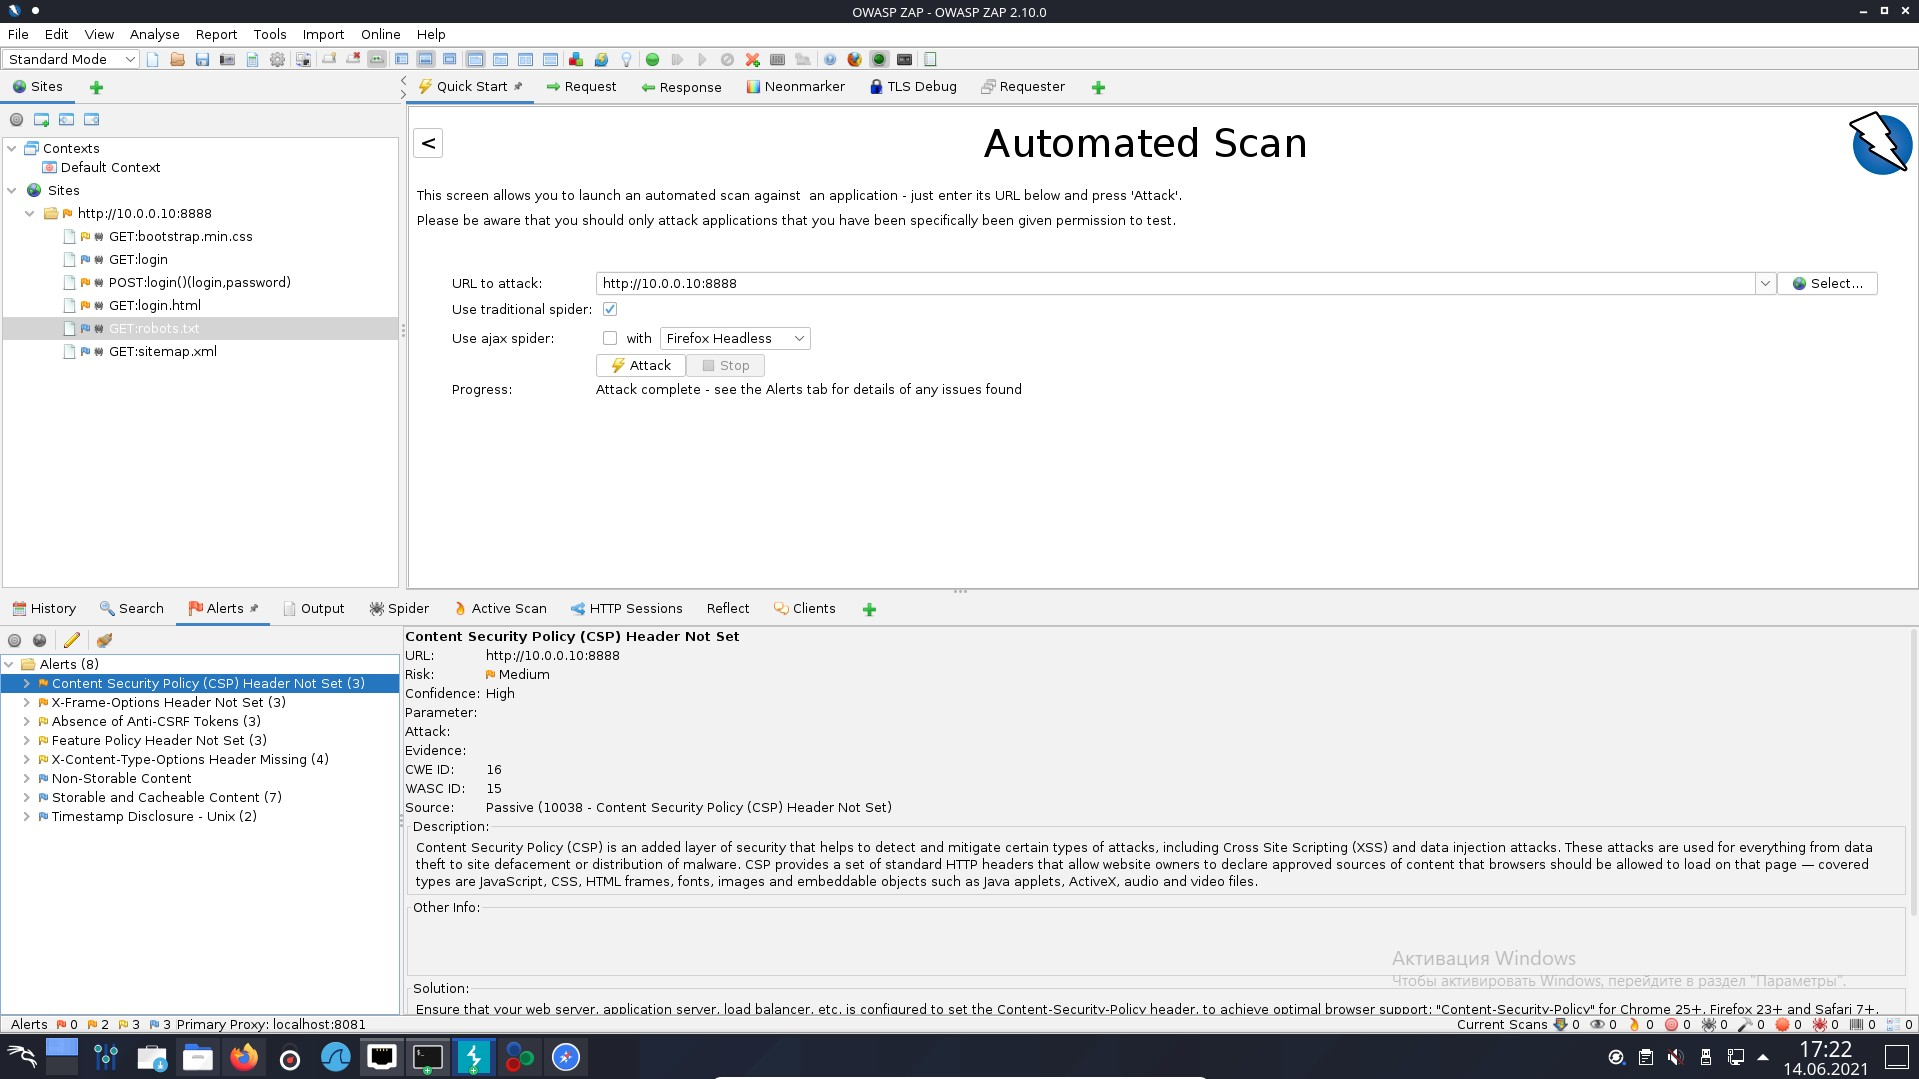
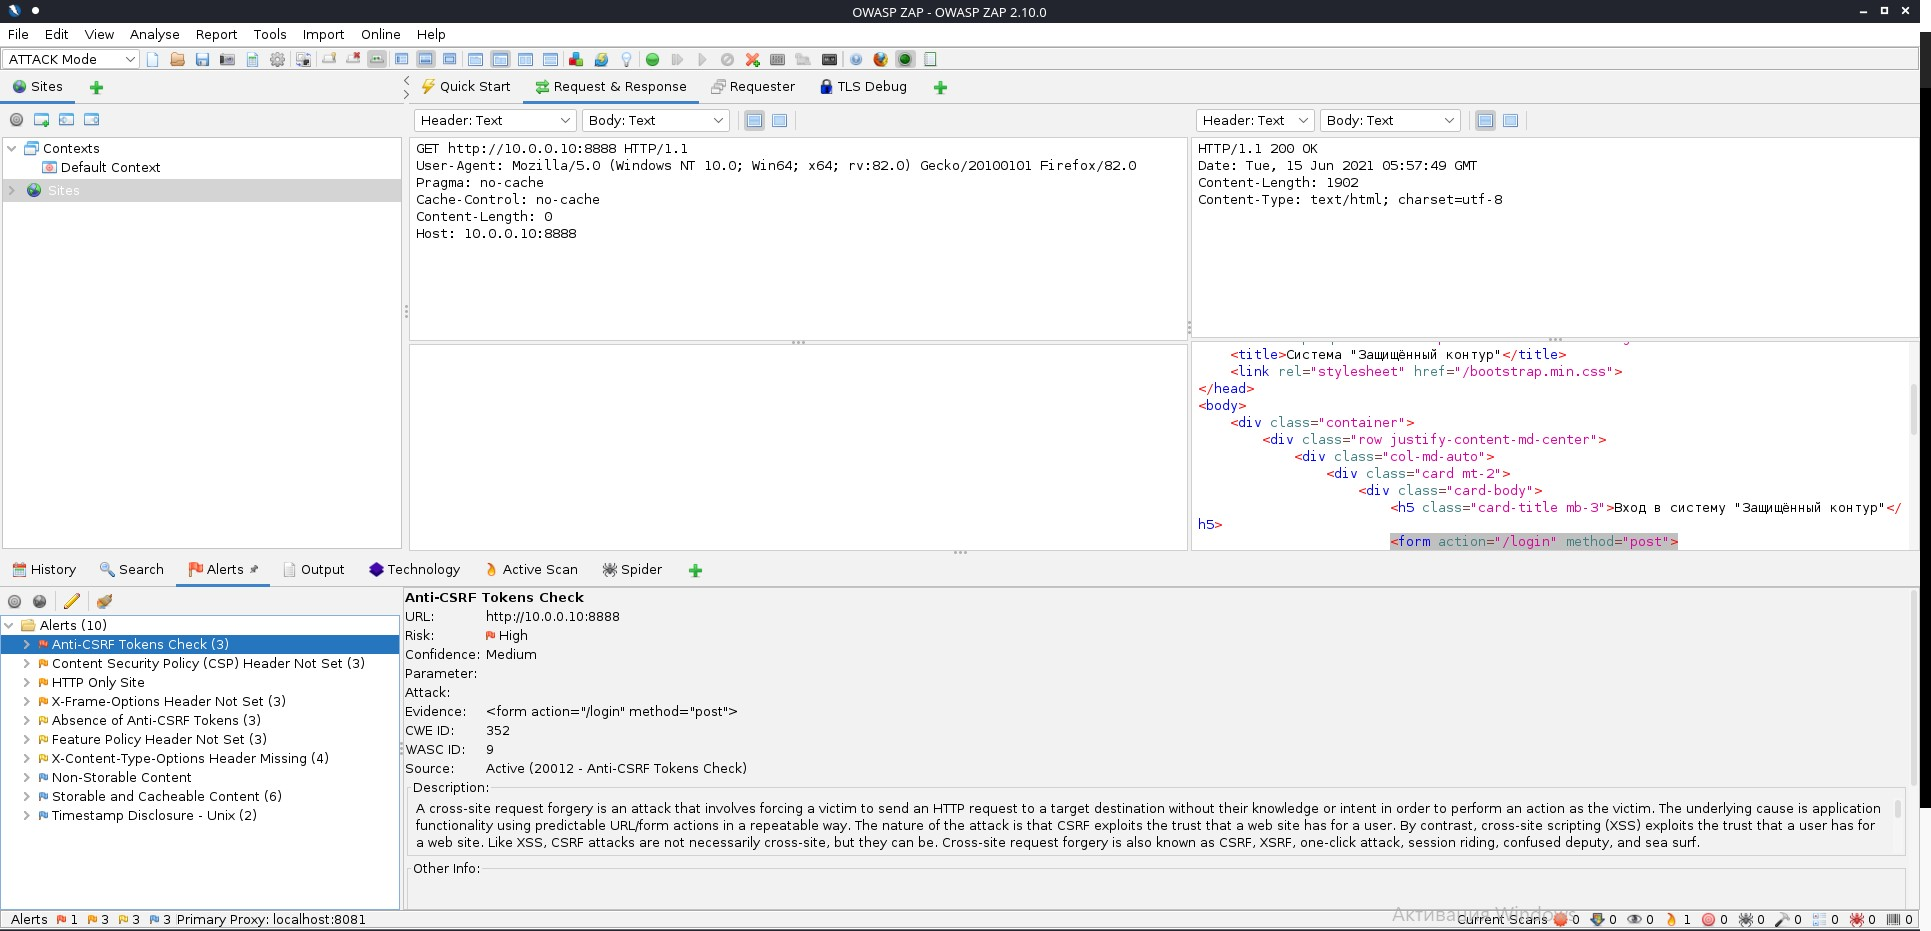
CourseWork4

Changed region(s): [[0.0, 0.0, 1.0, 1.0], [0.3075, 0.3115, 0.5534, 0.3738]]

diff --git a/CourseWork/coursework.md b/CourseWork/coursework.md
@@ -4,20 +4,98 @@
 
 ### >>>> ПДн: реализация мер по обеспечению безопасности в части ИАФ, УПД
 
-1. Отсутствует логирование действий операторов работающих с документами КТ.
-2. 
+#### Приказ 21
+
+1.	ИАФ.3	Управление идентификаторами, в том числе создание, присвоение, уничтожение идентификаторов
+
+    > Не реализовано
+
+2. ИАФ.4	Управление средствами аутентификации, в том числе хранение, выдача, инициализация, блокирование средств аутентификации и принятие мер в случае утраты и (или) компрометации средств аутентификации
+    > Не реализовано
+
+3. ИАФ.5	Защита обратной связи при вводе аутентификационной информации
+    > Не реализовано. Используется HTTP при аутентификации. Является слабостью, есть возможность перехвата аутентификационных данных.
+
+4.  ИАФ.6	Идентификация и аутентификация пользователей, не являющихся работниками оператора (внешних пользователей)
+    > Не реализовано
+
+5. УПД.1	Управление (заведение, активация, блокирование и уничтожение) учетными записями пользователей, в   том числе внешних пользователей    
+    > Не реализовано. Созданы только функции создания и удаления учётных записей.
+
+6. УПД.2	Реализация необходимых методов (дискреционный, мандатный, ролевой или иной метод), типов (чтение, запись, выполнение или иной тип) и правил разграничения доступа
+    > Реализован ролевой метод, не учитывая ошибки реализации описанные в пункте 8.
+
+7. УПД.3	Управление (фильтрация, маршрутизация, контроль соединений, однонаправленная передача и иные способы управления) информационными потоками между устройствами, сегментами информационной системы, а также между информационными системами
+    > Не реализовано. Не выполняется требование: " Управление информационными потоками должно блокировать передачу персональных данных через сеть Интернет (или другие информационно-телекоммуникационные сети международного информационного обмена) по незащищенным линиям связи, сетевые запросы и трафик, несанкционированно исходящие из ИСПДн и (или) входящие в ИСПДн."
+
+8. УПД.4	Разделение полномочий (ролей) пользователей, администраторов и лиц, обеспечивающих функционирование информационной системы
+    > Не реализовано. В процессе реализации допущены критические ошибки. Основная выявленная ошибка - это возможность доступа к странице "КТ" из под пользователя работающего только с "Клиентами".
+
+9. УПД.5	Назначение минимально необходимых прав и привилегий пользователям, администраторам и лицам, обеспечивающим функционирование информационной системы
+    > Не реализовано. На мой взгляд, для уменьшения рисков потери информации нужно использовать больше ролей пользователей, таких как просто оператор с возможностью только вносить данные, старший оператор с возможностями удаления, а так же можно разделить и администраторские аккаунты для лучшей безопасности.
+
+10. Приказ  21	УПД.6	Ограничение неуспешных попыток входа в информационную систему (доступа к информационной системе 
+    > Не реализовано. Является слабостью данной системы.
+
+11. УПД.13	Реализация защищенного удаленного доступа субъектов доступа к объектам доступа через внешние информационно-телекоммуникационные сети
+    > Не реализовано. Такой вывод сделан в виду отсутствия документации.
+
+12. УПД.14	Регламентация и контроль использования в информационной системе технологий беспроводного доступа
+    > Не реализовано. Такой вывод сделан в виду отсутствия документации.
+
+13. УПД.15	Регламентация и контроль использования в информационной системе мобильных технических средств
+    > Не реализовано. Такой вывод сделан в виду отсутствия документации.
+    
+14. УПД.16	Управление взаимодействием с информационными системами сторонних организаций (внешние информационные системы)
+    > Не реализовано. Такой вывод сделан в виду отсутствия документации.
+
+15. РСБ.1	Определение событий безопасности, подлежащих регистрации, и сроков их хранения
+    > Не реализовано. Логов событий в WEB интерфейсе, а так же в стандартных папках логов, найти не удалось.
+
+16. РСБ.2	Определение состава и содержания информации о событиях безопасности, подлежащих регистрации
+    > Не реализовано. Логов событий в WEB интерфейсе, а так же в стандартных папках логов, найти не удалось.
+
+17. РСБ.3	Сбор, запись и хранение информации о событиях безопасности в течение установленного времени хранения
+    > Не реализовано. Логов событий в WEB интерфейсе, а так же в стандартных папках логов, найти не удалось.
+
+18. РСБ.7	Защита информации о событиях безопасности
+    > Не реализовано. Логов событий в WEB интерфейсе, а так же в стандартных папках логов, натий не удалось.
+
+19. АВЗ.1	Реализация антивирусной защиты
+    > Не реализовано.
+
+20. АВЗ.2	Обновление базы данных признаков вредоносных компьютерных программ (вирусов)
+    > Не реализовано.
+
+21. АНЗ.2	Контроль установки обновлений программного обеспечения, включая обновление программного обеспечения средств защиты информации
+    > Не реализовано.
+
+22. ЗИС.3	Обеспечение защиты персональных данных от раскрытия, модификации и навязывания (ввода ложной информации) при ее передаче (подготовке к передаче) по каналам связи, имеющим выход за пределы контролируемой зоны, в том числе беспроводным каналам связи
+    > Не реализовано. Такой вывод сделан в виду отсутсвия документации.
+
+
 
 
 ### >>>> КТ: "разрешение или запрет доступа к информации, составляющей коммерческую тайну" посредством механизмов разграничения доступа, встроенных в приложение (механизмы ОС и сторонних сервисов рассматривать не нужно)
 
-1. Документы составляющие коммерческую тайну хранятся в открытом виде. Нужно хранить в зашифрованном виде.
+1. Документы составляющие коммерческую тайну хранятся в открытом виде на виртуальной машине.
 2.  Под пользователем которому разрешён доступ к разделу "Клиенты" можно зайди в раздел "Документы", наоборот не получилось.
 
 ## 2. Найденные "слабости" (которые могут привести к уязвимостям) и предложение по необходимым мерам для их устранения (если такие меры возможно принять).
 
-1. 
-2. 
-3. 
+1. Отсутсвие защиты от брутфорса
+2. Возможность перехвата траффика (HTTP Only Site)
+    > На скришоте видно, что логин и пароль передаются в открытом виде.
+
+![](pic/interception.jpg)
+
+3. Anti-CSRF Tokens Check (<form action="/login" method="post">))
+4. Content Security Policy (CSP) Header Not Set
+5. X-Frame-Options header is not included in the HTTP response to protect against 'ClickJacking' attacks.
+6. Feature Policy Header Not Set
+7. X-Content-Type-Options Header Missing
+
+![](pic/ZAPalerts.jpg)
 
 
 ## Результаты сканирования 
